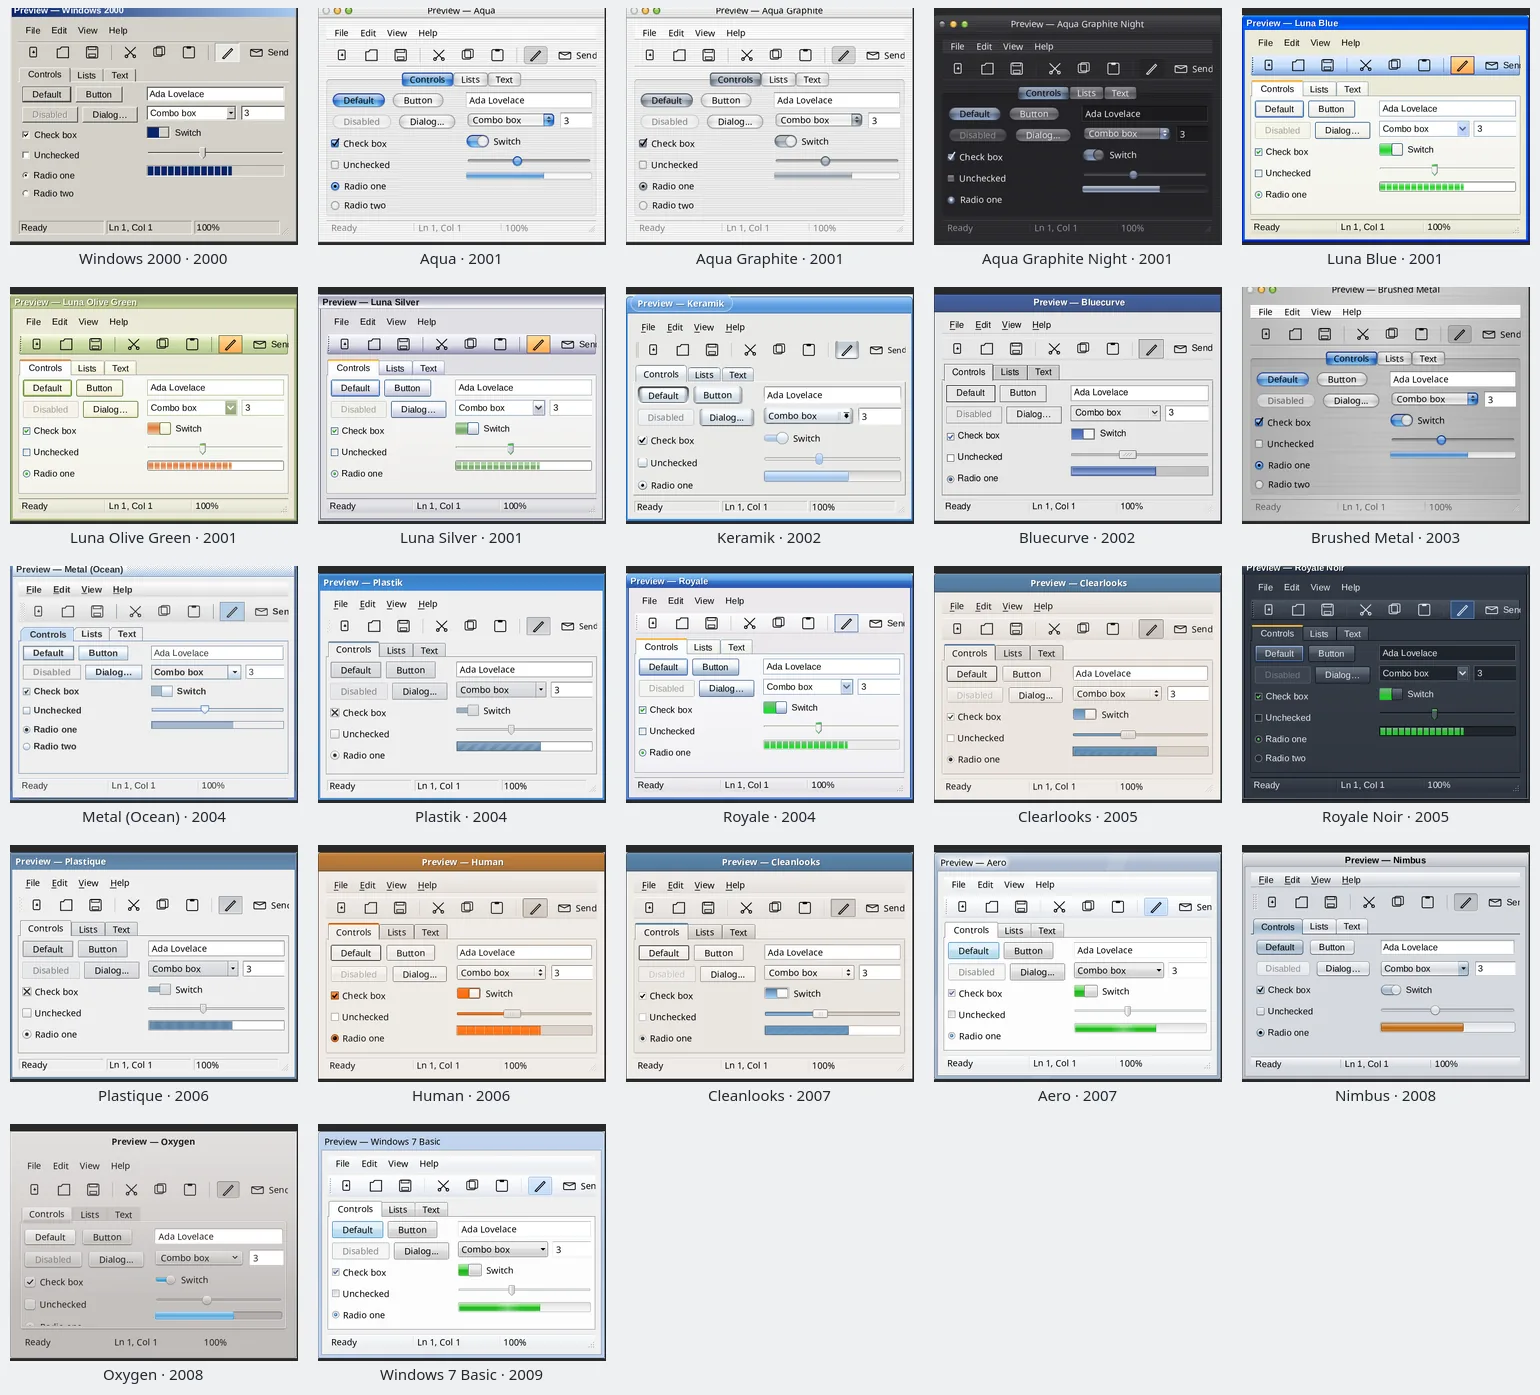
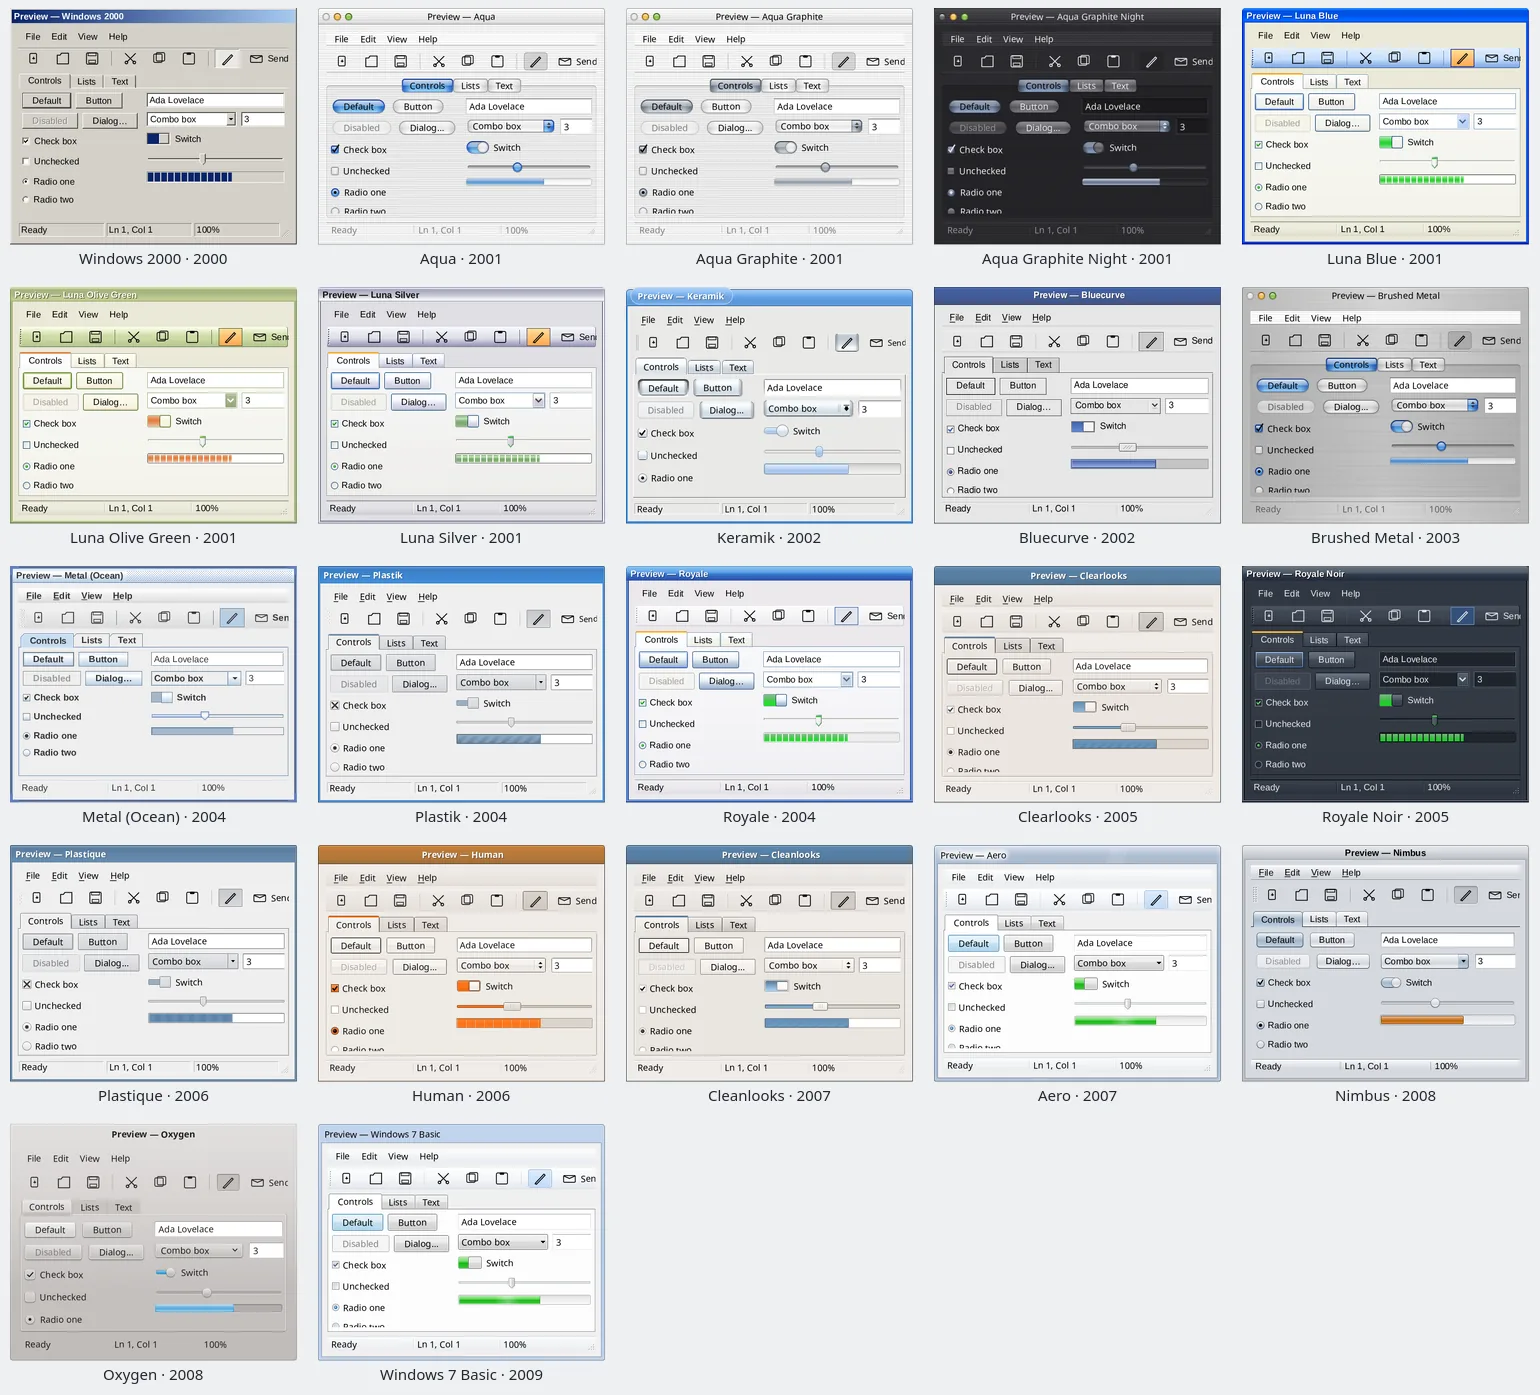
docs(readme): the web packs, and the timeline to 2026
The timeline gains a block of lanes for the web engine's packs (Dracula
to Linear) and runs to 2026. The decade sheets are redrawn from the
steadied Settings preview, so every tile shows its whole window again,
and the 25 web packs get a sheet of their own.

Changed region(s): [[0.0, 0.0, 0.9974, 0.9864], [0.0623, 0.9556, 0.0935, 0.9864]]

diff --git a/README.md b/README.md
@@ -112,6 +112,15 @@ drawn by its pack's engine.
 
 ![libadwaita, macOS Big Sur, Material 3 and Fluent, light and dark](docs/screenshots/themes/themes-2020s.webp)
 
+### The web and its apps
+
+The web engine draws the looks developers live in today: the design
+systems of GitHub (Primer), Vercel (Geist), shadcn/ui and Linear, the
+editor palettes Dracula, Nord, Tokyo Night, Catppuccin and Rosé Pine, and
+SourceGit's own theme.
+
+![Dracula, Nord, Tokyo Night, Catppuccin, Rosé Pine, GitHub Primer, Vercel Geist, SourceGit, shadcn/ui and Linear, light and dark](docs/screenshots/themes/themes-web.webp)
+
 The full list, with what each pack reproduces, is in
 [docs/themes.md](docs/themes.md). How engines work, and how to write one,
 is in [docs/theme-engines.md](docs/theme-engines.md).
